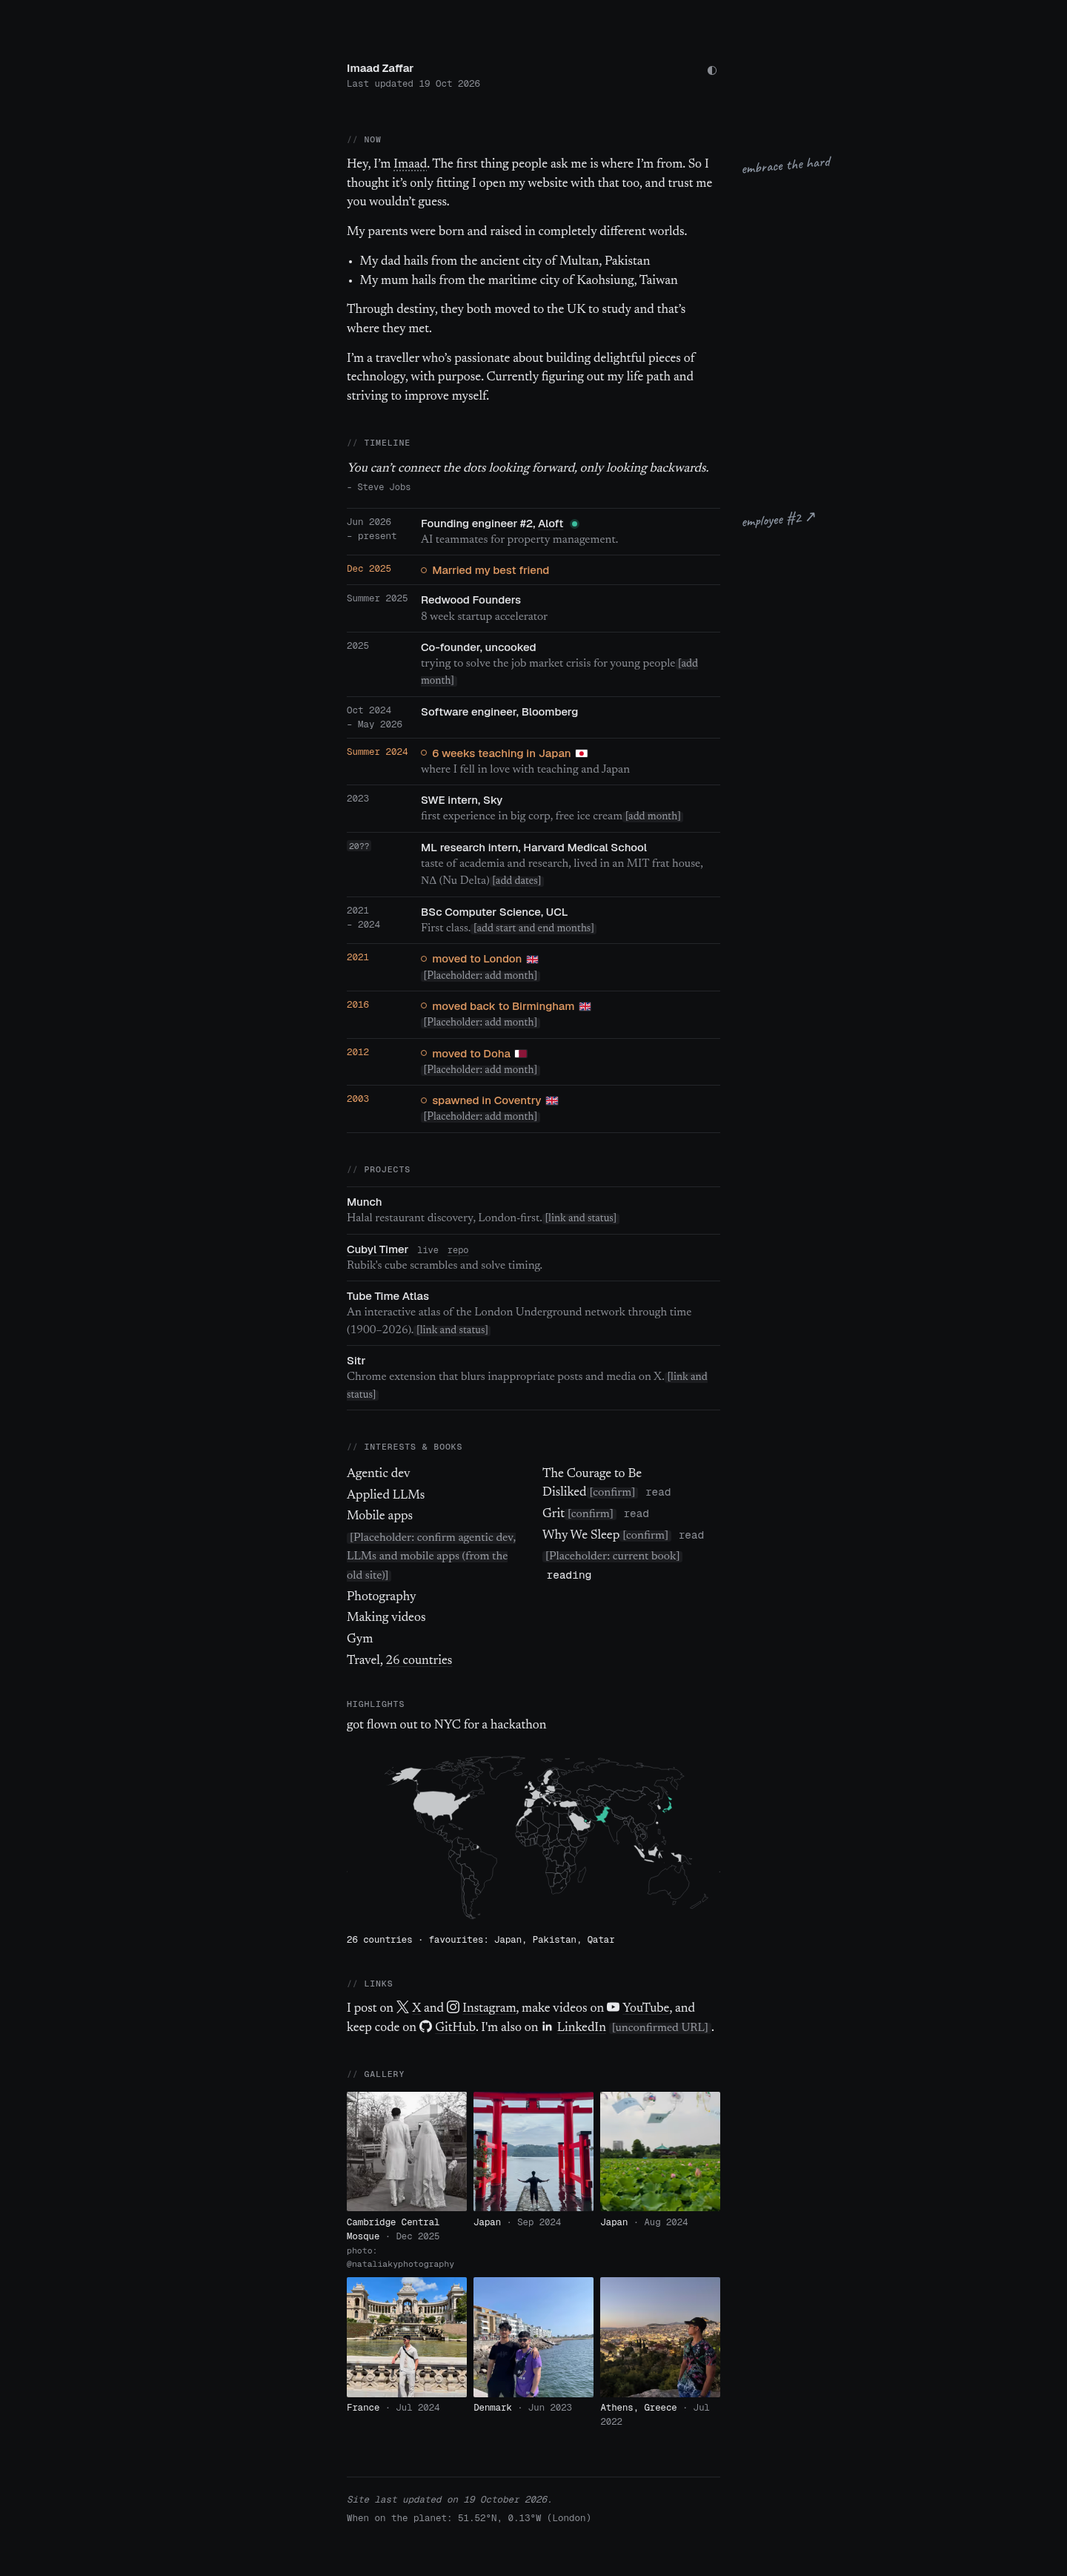
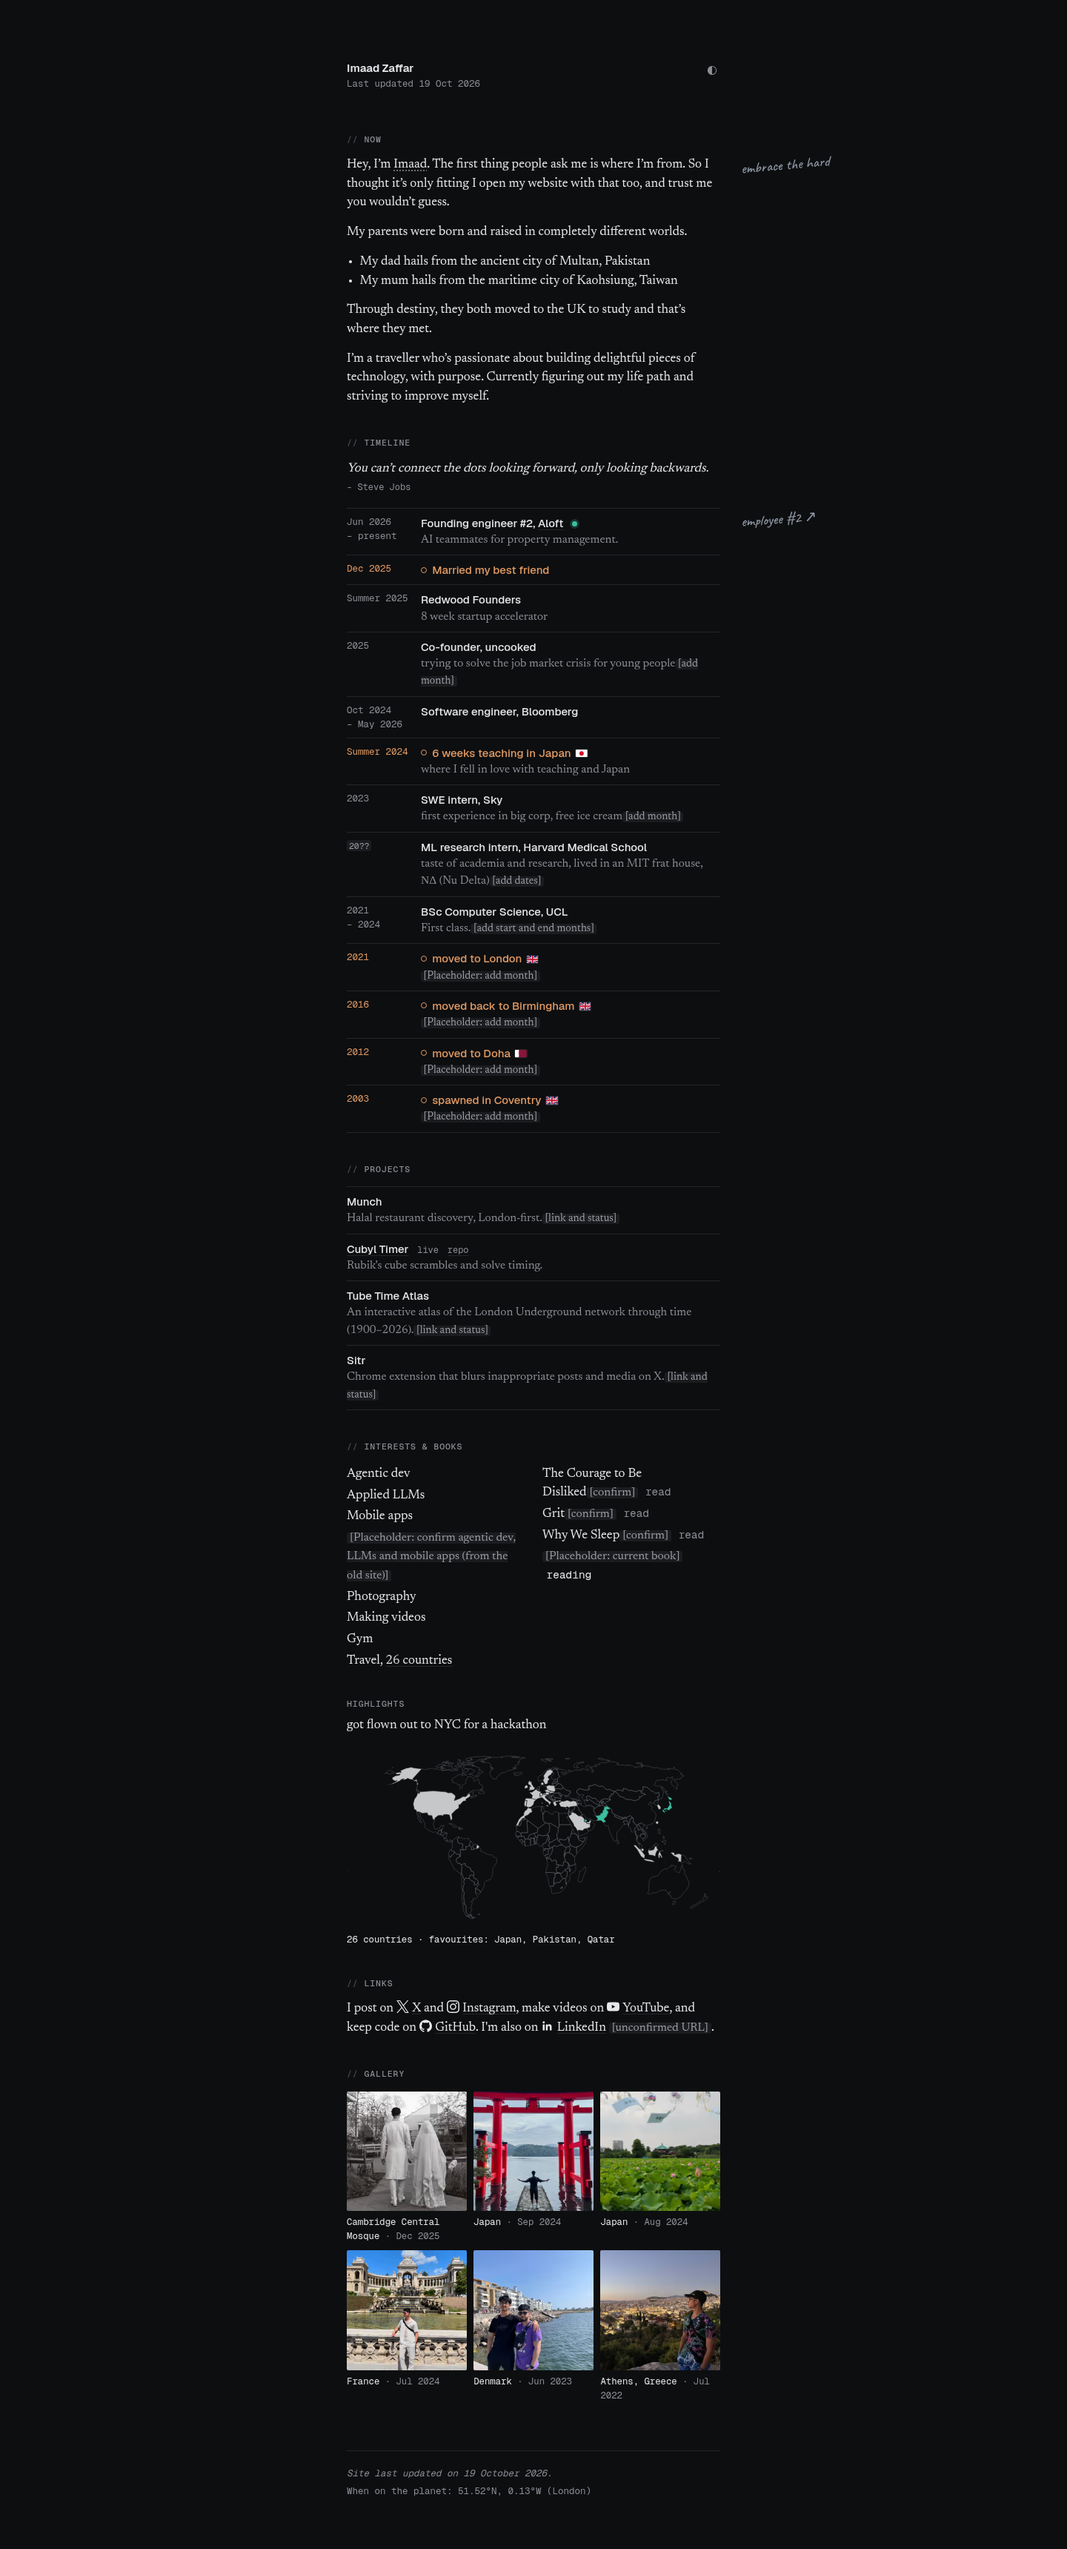
Gallery: remove the photo credit
Drops the credit field from the gallery schema and 01.json, its markup
and its .credit style.

diff --git a/src/styles/global.css b/src/styles/global.css
@@ -125,7 +125,6 @@ a:focus-visible, .term:focus-visible { outline: 1px solid var(--accent); outline
 figure { margin: 0; }
 .grid a, .grid picture { display: block; }
 .grid img { display: block; width: 100%; height: auto; aspect-ratio: 1; object-fit: cover; border-radius: 2px; }
-.credit { display: block; overflow-wrap: anywhere; font-family: var(--mono); font-size: 0.72rem; color: var(--muted); }
 figcaption { font-size: 0.82em; margin-top: 0.35rem; }
 figcaption span { color: var(--muted); }
 

diff --git a/src/content.config.ts b/src/content.config.ts
@@ -96,7 +96,6 @@ const gallery = defineCollection({
       date: partialDate,
       alt: z.string(),
       url: z.string().url(),
-      credit: z.string().optional(),
       position: z.string().optional(),
     }),
 })

diff --git a/README.md b/README.md
@@ -26,7 +26,7 @@ All copy lives in `src/content/`. The schemas in `src/content.config.ts` validat
 | `interests.json` | Entries with `kind` set to `interest`, `highlight` (`text`) or `book` (`status`: `reading` or `read`). |
 | `travel.json` | Visited countries: `{ "id": "JP", "favourite": true }`, with optional `year` and `note`. `id` must be an ISO 3166-1 alpha-2 code. The world map, its favourites (in teal) and the Travel count come from this file. Countries too small to see get a dot. |
 | `links.json` | The links used in the Links sentence. `id` is one of `x`, `instagram`, `youtube`, `github`, `linkedin`. |
-| `gallery/*.json` | One file per photo: `image` (a path next to the JSON file), `caption`, `date` (`YYYY-MM`), `alt`, `url` (the Instagram post), optional `credit` and `position` (CSS `object-position` for the square crop). Files sort by name, so `01` shows first. |
+| `gallery/*.json` | One file per photo: `image` (a path next to the JSON file), `caption`, `date` (`YYYY-MM`), `alt`, `url` (the Instagram post), optional `position` (CSS `object-position` for the square crop). Files sort by name, so `01` shows first. |
 
 Placeholders follow one rule. Set a value to `null` and give a `todo` to show a grey `[Placeholder: …]` mark. Keep a value and add a `todo` to show it with a small `[todo]` mark. Delete the `todo` once the content is real. `npm run todos` lists what is left.
 
